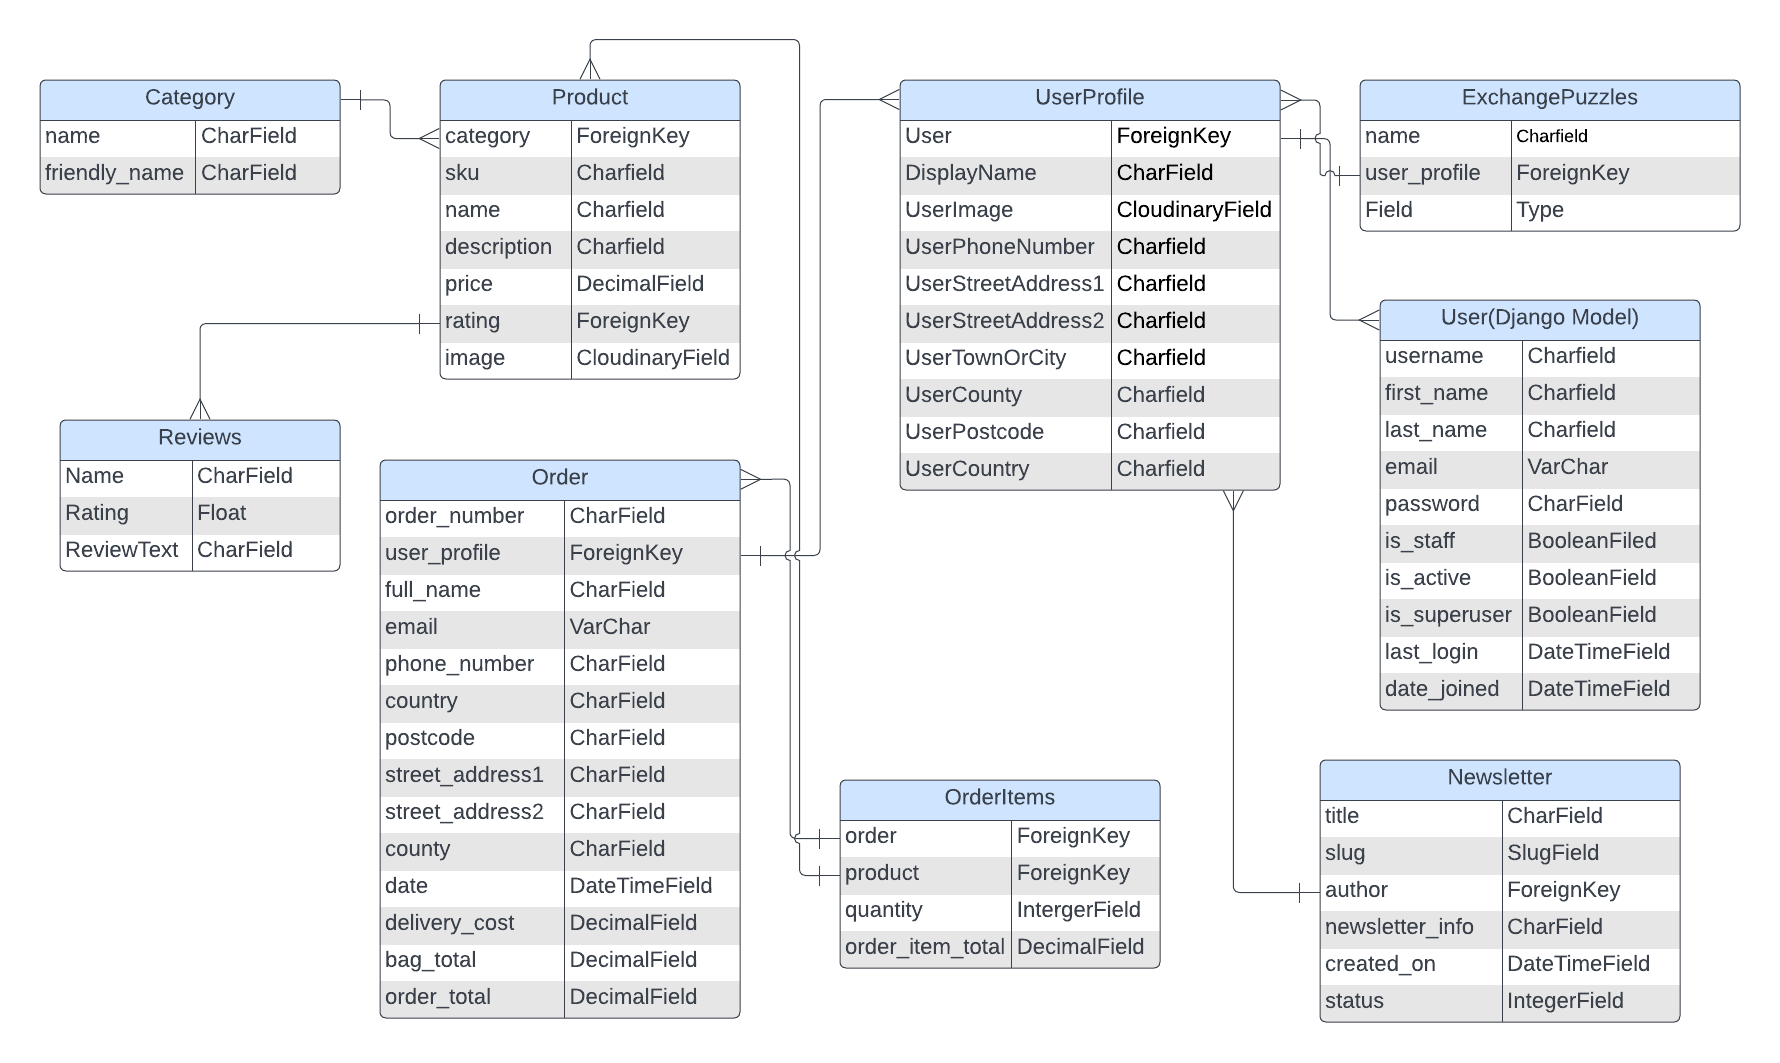
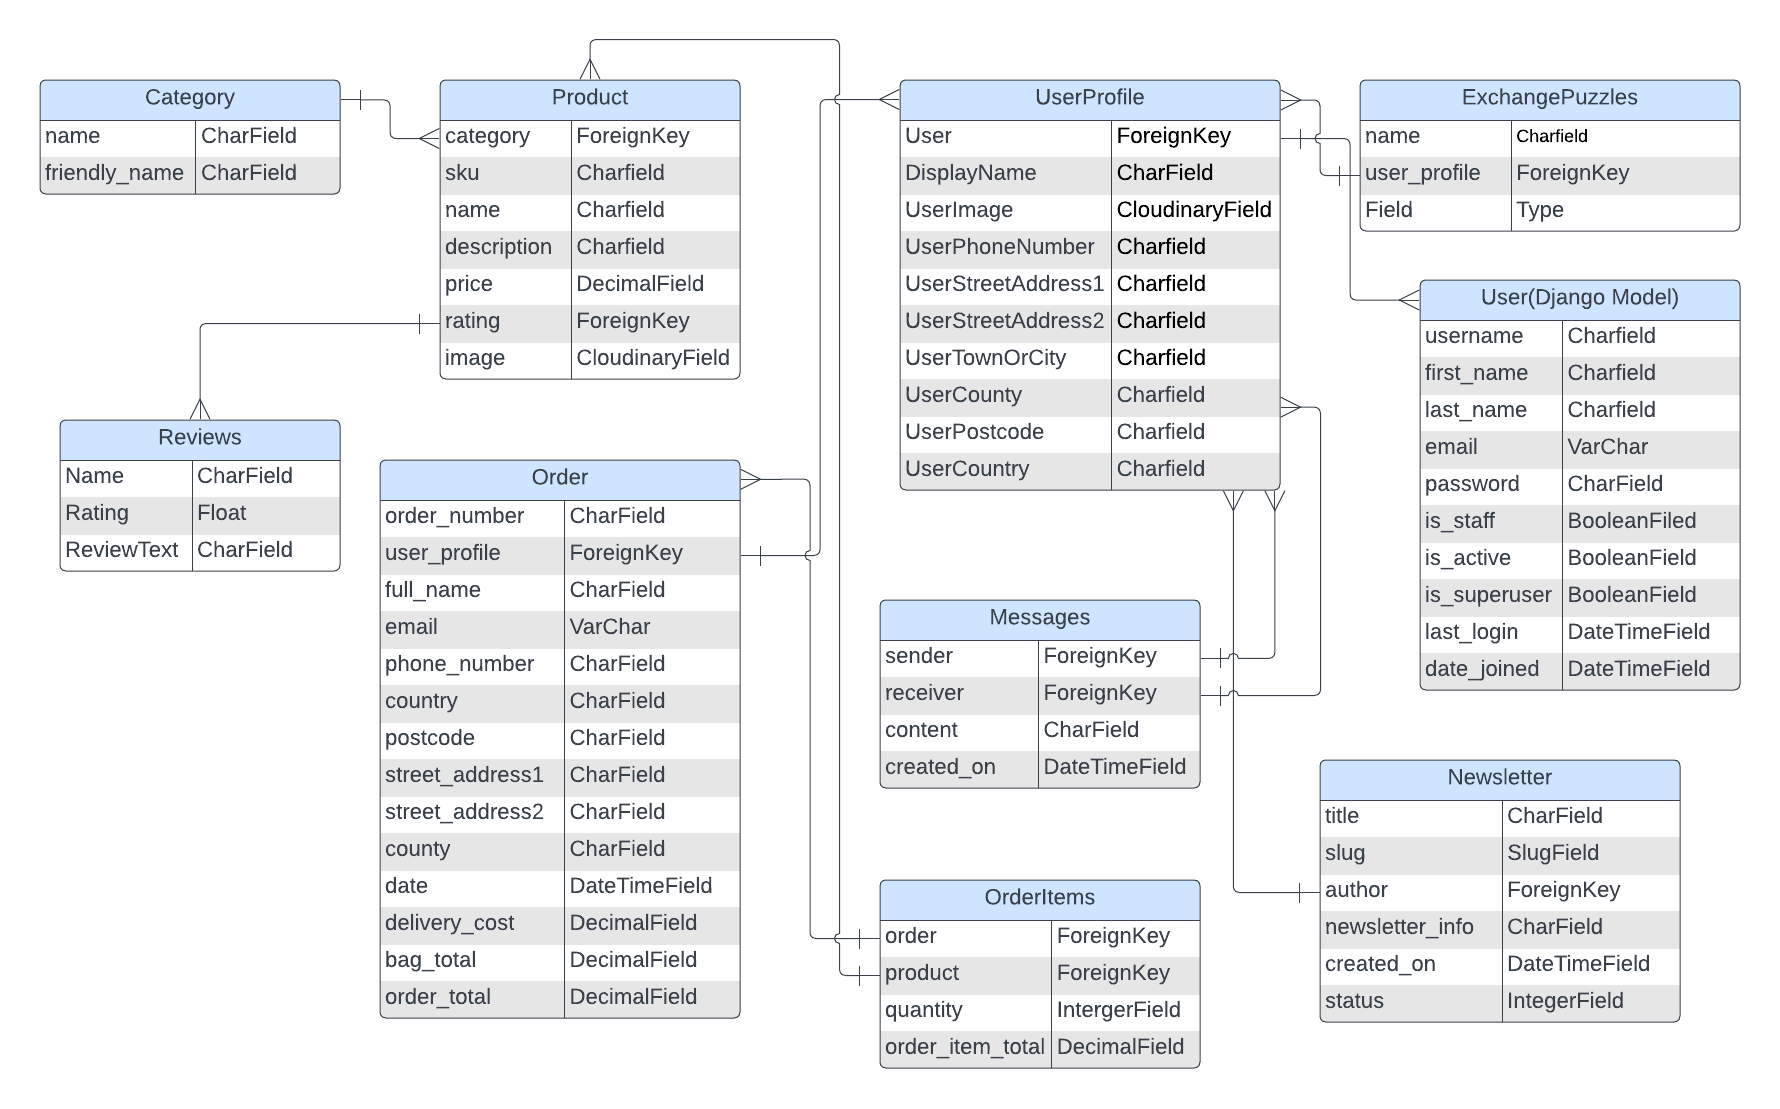
update ERD file and add model information to README

diff --git a/README.md b/README.md
@@ -12,7 +12,7 @@ Users can also participate in a puzzle exchange with other users wherein they ca
 * [Design](#design)
     - [Wireframes](#wireframes)
     - Site Styling
-    - Database Design
+    - [Database Design](#database-design)
 - Features
 - Languages and Technologies
     - Languages and Frameworks
@@ -174,7 +174,45 @@ Users can also participate in a puzzle exchange with other users wherein they ca
 
 #### ERD - Entity Relationship Diagram
 
+<img src="./documentation/Entity Relationship Diagram.png">
+
 ### Models
+
+#### Category Model
+
+This model will be used to organise all of the puzzles into various categories, so that the user can have a more refined search. 
+
+#### Product Model
+
+This model will contain all of the products for the site, this model is connected to the category model through the category field. There is also a ratings field which will link this model to to the Reviews model. 
+
+#### Reviews Model
+
+The reviews model will be used to store a user's rating and review of the a product. If a user deletes their account, their review and rating should also be deleted. 
+
+#### Order Model
+
+This model will store all of the order information for a user's order, orders will be linked to a user's profile an as such this model is connected to the UserProfile model. 
+
+#### OrderItems Model
+
+This model will be used when adding items to the bag object, each individual item added to the bag will be tracked here and the total of the bag, as items are added or removed it will update appropriately. 
+
+#### UserProfile Model
+
+The UserProfile will allow for a more customised approach on Django's built in User model, allowing for linking a user to their order history and also their reviews. It is linked to the Django User model for authentication purposes. 
+
+#### ExchangePuzzle Model
+
+This model will be used to store user submitted puzzles which they wish to exchange with other users. 
+
+#### Message Model 
+
+The Message model will be used to allow users to message each other in regards to the puzzle exchange so that they can arrange postage of the items. 
+
+#### Newsletter Model
+
+The Newsletter model will be used as blog post where site admins can add posts with updates for the overall site and also to announce any in person meetups for puzzle exchange or competitions. 
 
 ## Agile Development
 
